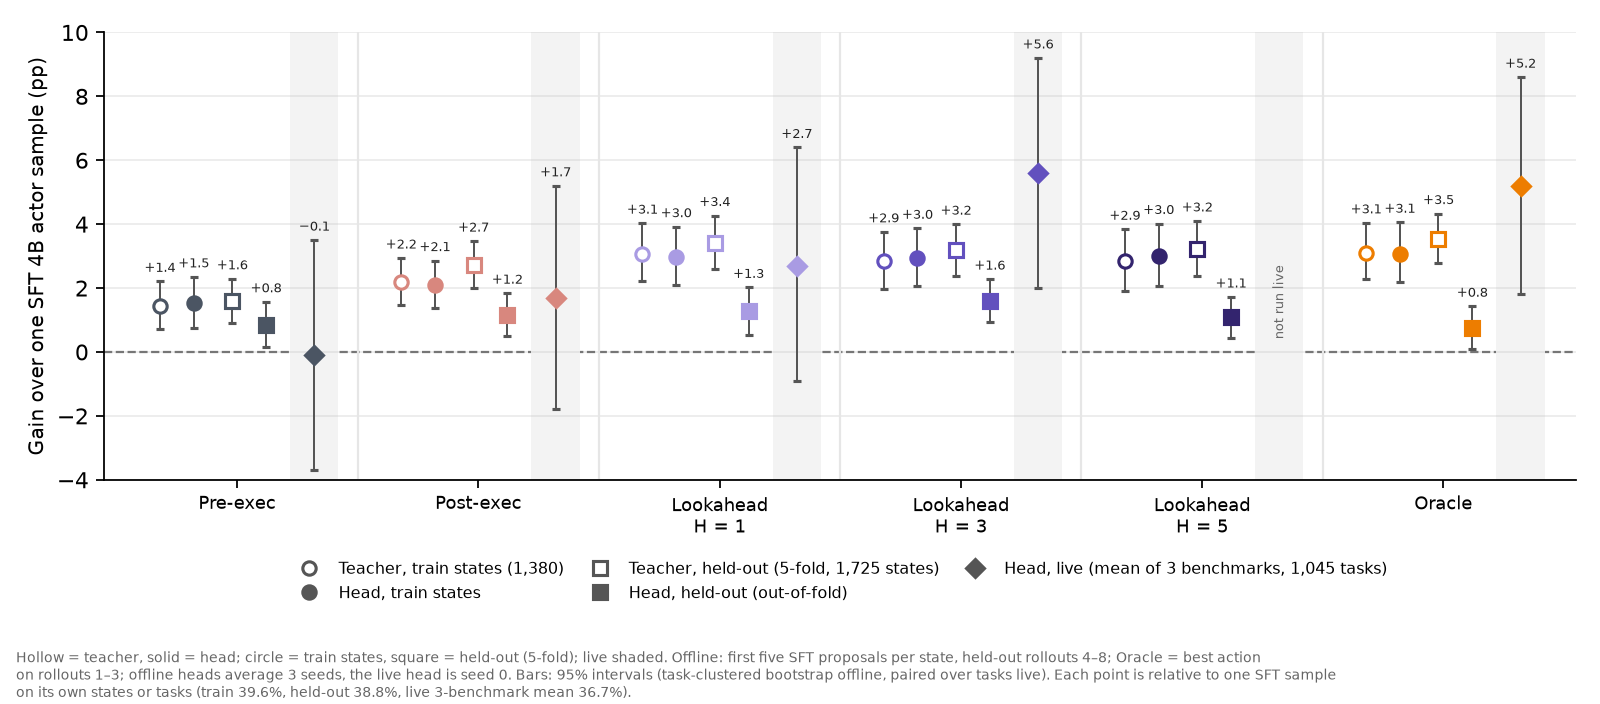
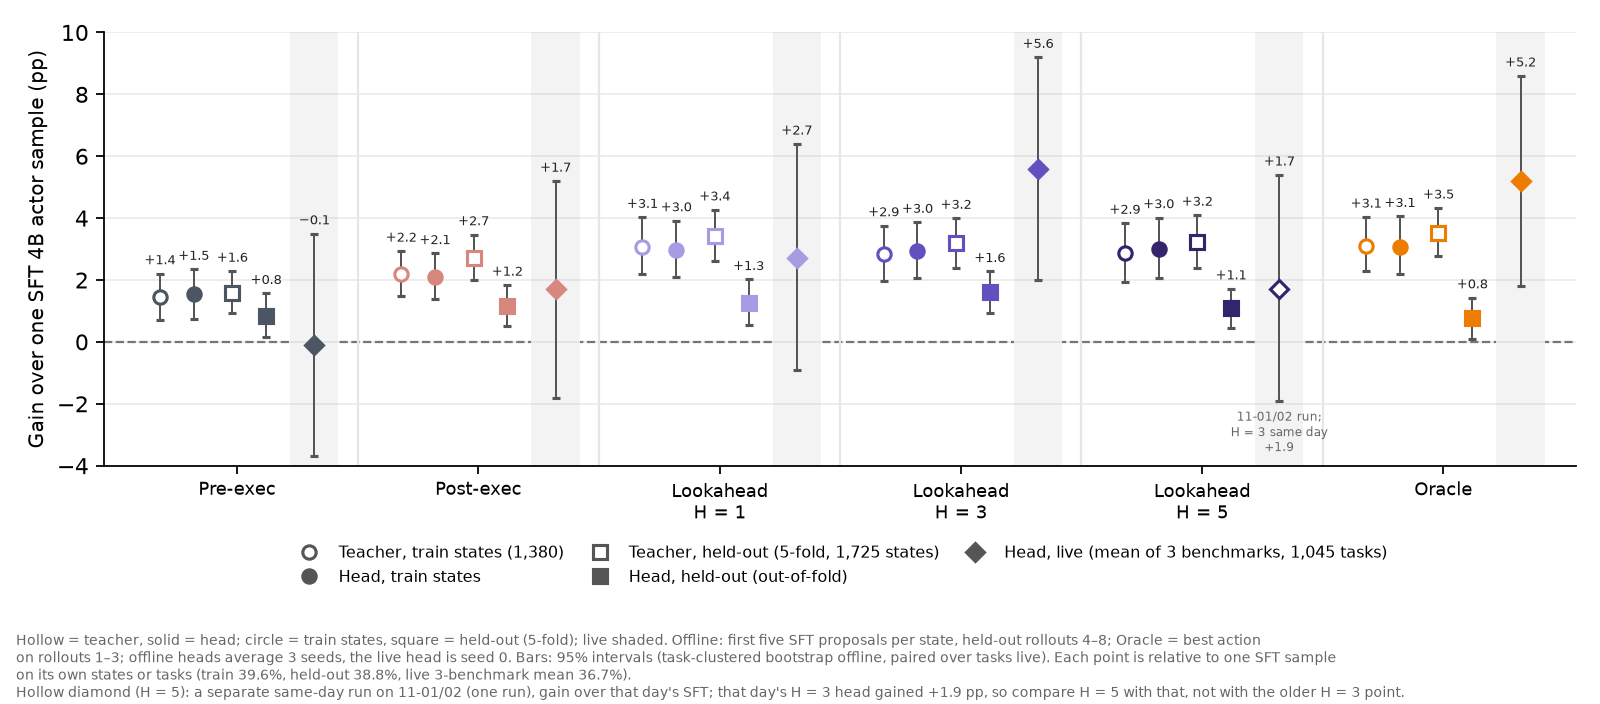
Selection labels: live H = 5 head (same-day run with H = 3 and SFT) added to the label plots
One run on 2026-11-01/02, SFT actor, 1280x1000, same judges as the live panel: H = 5 +1.7 [-1.9, +5.4] over SFT,
H = 3 +1.9 [-1.7, +5.6], H = 5 - H = 3 -0.2 [-3.6, +3.2]. Drawn hollow on the three k-fold plots, annotated with the
same-day H = 3 gain; table and DeepShop drift caveat in the k-fold section.

diff --git a/openwebrl/docs/arm_results/rl_integration/selection-label-same-state-kfold-20261101-plot.py b/openwebrl/docs/arm_results/rl_integration/selection-label-same-state-kfold-20261101-plot.py
@@ -10,7 +10,9 @@ valid draws only. Teacher = the label's argmax among the five (ties averaged); h
     selection-label-kfold-20261101.json ("pooled").
 Live: the seed-0 head, three-benchmark mean overall success (Online-Mind2Web 300 by gpt-5.6-terra, WebVoyager 595 and
 DeepShop 150 by GPT-4o) minus SFT 4B (selection-data-scale-20261023.json; post-execution from
-selection-label-stages-20261027.json "live"). Lookahead H = 5 was not run live.
+selection-label-stages-20261027.json "live"). Lookahead H = 5 was run live separately on 2026-11-01/02 (one run, same protocol and judges) with same-day SFT and
+H = 3 controls; its point is the same-day gain over SFT, drawn hollow (selection-label-k5-live-20261102.json, "h5 - sft").
+Read it against that day's H = 3 head (+1.9 over SFT), not the older H = 3 point.
 Each point is relative to one SFT sample on its own states/tasks; 95% intervals, task-clustered bootstrap (offline) or paired
 over tasks (live).
 """
@@ -26,13 +28,15 @@ TR = json.loads((HERE / "selection-label-train-states-kfold-20261101.json").read
 KF = json.loads((HERE / "selection-label-kfold-20261101.json").read_text())["pooled"]
 LIVE = json.loads((HERE / "selection-data-scale-20261023.json").read_text())["three_benchmarks"]
 EXTRA = json.loads((HERE / "selection-label-stages-20261027.json").read_text()).get("live", {})
+K5LIVE = json.loads((HERE / "selection-label-k5-live-20261102.json").read_text())["paired"]
+K5_H5, K5_H3 = K5LIVE["h5 - sft"]["mean"], K5LIVE["h3 - sft"]["mean"]  # same-day 11-01/02 run
 INK, MUTED, GRID = "#222222", "#666666", "#e6e6e6"
 ROWS = [  # label, colour, source key, live key
     ("Pre-exec", "#4B5563", "teacher_pre", "Ours pre"),
     ("Post-exec", "#D8877E", "teacher_post", "Ours post"),
     ("Lookahead\nH = 1", "#A99BE3", "teacher_k1", "Ours K1"),
     ("Lookahead\nH = 3", "#6250BE", "teacher_k3", "Ours K3"),
-    ("Lookahead\nH = 5", "#33246E", "teacher_k5", None),
+    ("Lookahead\nH = 5", "#33246E", "teacher_k5", "K5"),
     ("Oracle", "#ED7D00", "outcome", "Ours outcome")]
 MARK = [  # legend, marker, filled, dx
     (f"Teacher, train states ({TR['states']:,})", "o", False, -0.32),
@@ -43,7 +47,7 @@ MARK = [  # legend, marker, filled, dx
 
 
 def values(src, live):
-    lv = (EXTRA.get(live) or (LIVE[live]["minus_sft4b"] if live in LIVE else None)) if live else None
+    lv = K5_H5 if live == "K5" else ((EXTRA.get(live) or (LIVE[live]["minus_sft4b"] if live in LIVE else None)) if live else None)
     t = TR["train"][src]
     return [t["teacher_minus_sft"], t["head_minus_sft"], KF[src]["teacher_minus_sft"], KF[src]["head_minus_sft"], lv]
 
@@ -57,6 +61,9 @@ for x, (name, color, src, live) in enumerate(ROWS):
             ax.text(x + dx, 0.4, "not run live", ha="center", va="bottom", fontsize=6, color=MUTED, rotation=90)
             continue
         d, lo, hi = v
+        if live == "K5" and m == "D":  # separate same-day run: hollow, annotated with that day's H = 3
+            filled = False
+            ax.text(x + dx, lo - 0.3, "11-01/02 run;\nH = 3 same day\n" + f"{K5_H3[0]:+.1f}".replace("-", "−"), ha="center", va="top", fontsize=5.6, color=MUTED)
         ax.errorbar(x + dx, d, yerr=[[d - lo], [hi - d]], fmt=m, ms=6, color=color, ecolor="#555555", capsize=1.8,
                     lw=0.9, zorder=3, markeredgewidth=1.4, markerfacecolor=color if filled else "white",
                     markeredgecolor=color)
@@ -76,6 +83,6 @@ fig.text(0.01, 0.01, "Hollow = teacher, solid = head; circle = train states, squ
          "five SFT proposals per state, held-out rollouts 4–8; Oracle = best action\non rollouts 1–3; offline heads average 3 seeds, "
          "the live head is seed 0. Bars: 95% intervals (task-clustered bootstrap offline, paired over tasks live). Each point is "
          f"relative to one SFT sample\non its own states or tasks (train {TR['train']['sft_sample']:.1f}%, held-out "
-         f"{KF['sft_sample']:.1f}%, live 3-benchmark mean {LIVE['SFT 4B']['mean_overall']:.1f}%).", fontsize=6.5, color=MUTED)
-fig.tight_layout(rect=(0, 0.08, 1, 1))
+         f"{KF['sft_sample']:.1f}%, live 3-benchmark mean {LIVE['SFT 4B']['mean_overall']:.1f}%)." + "\nHollow diamond (H = 5): a separate same-day run on 11-01/02 (one run), gain over that day's SFT; that day's H = 3 head gained " + f"{K5_H3[0]:+.1f}".replace("-", "−") + " pp, so compare H = 5 with that, not with the older H = 3 point.", fontsize=6.5, color=MUTED)
+fig.tight_layout(rect=(0, 0.1, 1, 1))
 fig.savefig(HERE / "selection-label-same-state-kfold-20261101.png", dpi=160); plt.close(fig)

diff --git a/openwebrl/docs/arm_results/rl_integration/selection-label-stages-kfold-20261101-plot.py b/openwebrl/docs/arm_results/rl_integration/selection-label-stages-kfold-20261101-plot.py
@@ -10,7 +10,9 @@ sample of the same SFT 4B actor at three stages.
 (3) Head live: the seed-0 head trained on the original 1,380 training states, three-benchmark mean overall success
     (Online-Mind2Web 300 by gpt-5.6-terra, WebVoyager 595 and DeepShop 150 by GPT-4o) minus one SFT 4B sample, paired 95%
     bootstrap over tasks (selection-data-scale-20261023.json; post-execution from selection-label-stages-20261027.json).
-    Lookahead H = 5 was not run live.
+    Lookahead H = 5 was run live separately on 2026-11-01/02 (one run, same protocol and judges) with same-day SFT and
+H = 3 controls; its point is the same-day gain over SFT, drawn hollow (selection-label-k5-live-20261102.json, "h5 - sft").
+Read it against that day's H = 3 head (+1.9 over SFT), not the older H = 3 point.
 Stages (1)-(2) share states; (3) uses different tasks, so compare orderings across stages, not sizes. The prior judge
 formulations (WebArbiter, WebShepherd, PRO-CUA) were scored as teachers on a different 1,010-state set and are left out;
 they remain in selection-label-stages-20261027.png.
@@ -26,13 +28,15 @@ HERE = Path(__file__).resolve().parent
 K = json.loads((HERE / "selection-label-kfold-20261101.json").read_text())["pooled"]
 LIVE = json.loads((HERE / "selection-data-scale-20261023.json").read_text())["three_benchmarks"]
 EXTRA = json.loads((HERE / "selection-label-stages-20261027.json").read_text()).get("live", {})
+K5LIVE = json.loads((HERE / "selection-label-k5-live-20261102.json").read_text())["paired"]
+K5_H5, K5_H3 = K5LIVE["h5 - sft"]["mean"], K5LIVE["h3 - sft"]["mean"]  # same-day 11-01/02 run
 INK, MUTED = "#222222", "#666666"
 ROWS = [  # tick label, colour, source key, live key
     ("Pre-exec", "#4B5563", "teacher_pre", "Ours pre"),
     ("Post-exec", "#D8877E", "teacher_post", "Ours post"),
     ("Lookahead\nH = 1", "#A99BE3", "teacher_k1", "Ours K1"),
     ("Lookahead\nH = 3", "#6250BE", "teacher_k3", "Ours K3"),
-    ("Lookahead\nH = 5", "#33246E", "teacher_k5", None),
+    ("Lookahead\nH = 5", "#33246E", "teacher_k5", "K5"),
     ("Oracle", "#ED7D00", "outcome", "Ours outcome")]
 MARK = [(f"Teacher's pick, offline ({K['states']:,} states, 5-fold)", "o", False),
         ("Head trained on the labels, offline (out-of-fold, 3 seeds)", "s", False),
@@ -41,7 +45,7 @@ DX = (-0.24, 0, 0.24)
 
 
 def values(src, live):
-    lv = (EXTRA.get(live) or (LIVE[live]["minus_sft4b"] if live in LIVE else None)) if live else None
+    lv = K5_H5 if live == "K5" else ((EXTRA.get(live) or (LIVE[live]["minus_sft4b"] if live in LIVE else None)) if live else None)
     return [K[src]["teacher_minus_sft"], K[src]["head_minus_sft"], lv]
 
 
@@ -53,6 +57,9 @@ for x, (_, color, src, live) in enumerate(ROWS):
             ax.text(x + dx, 0.4, "not run\nlive", ha="center", va="bottom", fontsize=6, color=MUTED)
             continue
         d, lo, hi = v
+        if live == "K5" and m == "D":  # separate same-day run: hollow, annotated with that day's H = 3
+            filled = False
+            ax.text(x + dx, lo - 0.3, "11-01/02 run;\nH = 3 same day\n" + f"{K5_H3[0]:+.1f}".replace("-", "−"), ha="center", va="top", fontsize=5.6, color=MUTED)
         ax.errorbar(x + dx, d, yerr=[[d - lo], [hi - d]], fmt=m, ms=6.5, color=color, ecolor="#555555", capsize=2,
                     lw=0.9, zorder=3, markeredgewidth=1.4, markerfacecolor=color if filled else "white",
                     markeredgecolor=color)
@@ -68,6 +75,6 @@ ax.legend(handles, [l for l, _, _ in MARK], frameon=False, fontsize=7.5, loc="up
 fig.text(0.01, 0.01, "Offline: first five SFT proposals per state, held-out rollouts 4–8 (labels used rollouts 1–3; Oracle = best "
          f"action on rollouts 1–3); one SFT sample = {K['sft_sample']:.1f}%. Live: one SFT sample = "
          f"{LIVE['SFT 4B']['mean_overall']:.1f}%.\nBars: 95% intervals, task-clustered bootstrap (offline) or paired over tasks "
-         "(live). Offline and live use different tasks: compare orderings, not sizes.", fontsize=6.5, color=MUTED)
-fig.tight_layout(rect=(0, 0.05, 1, 1))
+         "(live). Offline and live use different tasks: compare orderings, not sizes." + "\nHollow diamond (H = 5): a separate same-day run on 11-01/02 (one run), gain over that day's SFT; that day's H = 3 head gained " + f"{K5_H3[0]:+.1f}".replace("-", "−") + " pp, so compare H = 5 with that, not with the older H = 3 point.", fontsize=6.5, color=MUTED)
+fig.tight_layout(rect=(0, 0.07, 1, 1))
 fig.savefig(HERE / "selection-label-stages-kfold-20261101.png", dpi=160); plt.close(fig)

diff --git a/openwebrl/docs/arm_results/rl_integration/selection-label-setups-kfold-20261101-plot.py b/openwebrl/docs/arm_results/rl_integration/selection-label-setups-kfold-20261101-plot.py
@@ -8,7 +8,9 @@
     averaged). Task-clustered bootstrap, 10,000 resamples, seed 20261101 (selection-label-kfold-20261101.json).
 (2) Live: the seed-0 head trained on the original 1,380 training states, three-benchmark mean overall success
     (Online-Mind2Web 300 by gpt-5.6-terra, WebVoyager 595 and DeepShop 150 by GPT-4o; selection-data-scale-20261023.json,
-    post-execution from selection-label-stages-20261027.json). Lookahead H = 5 was not run live.
+    post-execution from selection-label-stages-20261027.json). Lookahead H = 5 was run live separately on 2026-11-01/02 (one run, same protocol and judges) with same-day SFT and
+H = 3 controls; its point is the same-day gain over SFT, drawn hollow (selection-label-k5-live-20261102.json, "h5 - sft").
+Read it against that day's H = 3 head (+1.9 over SFT), not the older H = 3 point.
 """
 import json
 from pathlib import Path
@@ -21,13 +23,15 @@ HERE = Path(__file__).resolve().parent
 K = json.loads((HERE / "selection-label-kfold-20261101.json").read_text())
 LIVE = json.loads((HERE / "selection-data-scale-20261023.json").read_text())["three_benchmarks"]
 EXTRA = json.loads((HERE / "selection-label-stages-20261027.json").read_text()).get("live", {})
+K5LIVE = json.loads((HERE / "selection-label-k5-live-20261102.json").read_text())["paired"]
+K5_H5, K5_H3 = K5LIVE["h5 - sft"]["mean"], K5LIVE["h3 - sft"]["mean"]  # same-day 11-01/02 run
 INK, MUTED = "#222222", "#666666"
 ROWS = [  # tick label, colour, source key, live key
     ("Pre-exec", "#4B5563", "teacher_pre", "Ours pre"),
     ("Post-exec", "#D8877E", "teacher_post", "Ours post"),
     ("Lookahead\nH = 1", "#A99BE3", "teacher_k1", "Ours K1"),
     ("Lookahead\nH = 3", "#6250BE", "teacher_k3", "Ours K3"),
-    ("Lookahead\nH = 5", "#33246E", "teacher_k5", None),
+    ("Lookahead\nH = 5", "#33246E", "teacher_k5", "K5"),
     ("Oracle", "#ED7D00", "outcome", "Ours outcome")]
 P = K["pooled"]
 PANELS = [
@@ -51,6 +55,10 @@ for ax, (title, kind, base) in zip(axes, PANELS):
             if live is None:
                 ax.text(x, 0.4, "not run\nlive", ha="center", va="bottom", fontsize=6.5, color=MUTED)
                 continue
+            if live == "K5":  # separate same-day run: hollow, annotated with that day's H = 3
+                point(ax, x, K5_H5, color, "D", False)
+                ax.text(x, K5_H5[1] - 0.3, "11-01/02 run;\nH = 3 same day\n" + f"{K5_H3[0]:+.1f}".replace("-", "−"), ha="center", va="top", fontsize=5.6, color=MUTED)
+                continue
             point(ax, x, EXTRA.get(live) or LIVE[live]["minus_sft4b"], color, "D", True)
         else:
             point(ax, x - 0.17, P[src]["teacher_minus_sft"], color, "o", False)
@@ -64,9 +72,9 @@ axes[0].set_ylim(-4.5, 10); axes[0].set_ylabel("Gain over one SFT 4B actor sampl
 handles = [Line2D([], [], marker=m, ls="", color="#555555", ms=6.5, markeredgewidth=1.4,
                   markerfacecolor="#555555" if f else "white") for m, f in (("o", False), ("s", True), ("D", True))]
 fig.legend(handles, ["Teacher's pick (label)", "Head trained on the labels (3 seeds, out-of-fold)", "Head, live (seed 0)"],
-           frameon=False, fontsize=8, loc="lower center", ncol=3, bbox_to_anchor=(0.5, 0.06))
+           frameon=False, fontsize=8, loc="lower center", ncol=3, bbox_to_anchor=(0.5, 0.08))
 fig.text(0.01, 0.01, "Offline: each state's first five SFT proposals, scored on held-out rollouts 4–8 (labels used rollouts 1–3; "
          "Oracle = best action on rollouts 1–3). Bars: 95% intervals,\ntask-clustered bootstrap (offline) or paired over "
-         "tasks (live). Each panel's baseline is one SFT sample on its own states or tasks.", fontsize=6.5, color=MUTED)
-fig.tight_layout(rect=(0, 0.12, 1, 1))
+         "tasks (live). Each panel's baseline is one SFT sample on its own states or tasks." + "\nHollow diamond (H = 5): a separate same-day run on 11-01/02 (one run), gain over that day's SFT; that day's H = 3 head gained " + f"{K5_H3[0]:+.1f}".replace("-", "−") + " pp, so compare H = 5 with that, not with the older H = 3 point.", fontsize=6.5, color=MUTED)
+fig.tight_layout(rect=(0, 0.14, 1, 1))
 fig.savefig(HERE / "selection-label-setups-kfold-20261101.png", dpi=160); plt.close(fig)

diff --git a/openwebrl/docs/arm_results/rl_integration/selection-label-k5-live-20261102-analysis.py b/openwebrl/docs/arm_results/rl_integration/selection-label-k5-live-20261102-analysis.py
@@ -1,0 +1,39 @@
+#!/usr/bin/env python3
+"""Live H = 5 lookahead-label head vs H = 3 head vs SFT alone, same day (head-k5-20261101/run1, 2026-11-01/02), SFT actor,
+1280x1000, N=5, T1.0/p0.9, 30 steps, all tasks (OM2W 300, WV 595, DS 150). One run each. Valid-only = successes / valid;
+mean overall = unweighted mean of benchmark overall rates. Paired bootstrap over tasks (10,000, seed 20261029), benchmarks
+resampled independently. Context: H = 3 head and SFT pooled over the 3 runs of sameday-20261029 (cross-day)."""
+import json, sys
+from pathlib import Path
+import numpy as np
+R = Path('/gpfs/scrubbed/zixianma/openwebrl-runtime/evaluations'); BENCH = ('online_mind2web', 'webvoyager', 'deepshop')
+SLUG = {'sft': 'sft1', 'h3': 'head5-11d5eff8ffe1', 'h5': 'head5-ccf9e214b15a'}
+tasks = {b: list(json.loads((R/'crossbench-full-t10-20261018'/b/'sft1'/b/'plan.json').read_text())['keys']) for b in BENCH}
+rng = np.random.default_rng(20261029)
+def load(root, slug, b):
+    d = R/root/b/slug/b; keys = json.loads((d/'plan.json').read_text())['keys']; out = {}
+    for t in tasks[b]:
+        r = json.loads((d/'collection'/'records'/f'{keys[t]}.json').read_text()); v = str(r.get('valid')) == 'True'
+        out[t] = (v, v and float(r.get('reward') or 0) >= 1)
+    return out
+today = {c: [{b: load('head-k5-20261101/run1', s, b) for b in BENCH}] for c, s in SLUG.items()}
+oct29 = {c: [{b: load(rt, SLUG[c], b) for b in BENCH} for rt in ('sameday-20261029', 'sameday-20261029/rerun2', 'sameday-20261029/rerun3')] for c in ('sft', 'h3')}
+def vec(rs, b): return np.array([np.mean([r[b][t][1] for r in rs]) for t in tasks[b]], float)
+def boot(xs):
+    est = np.mean([x.mean() for x in xs]); bs = np.mean([x[rng.integers(0, len(x), (10000, len(x)))].mean(1) for x in xs], 0)
+    return [round(100*est, 1), round(100*np.percentile(bs, 2.5), 1), round(100*np.percentile(bs, 97.5), 1)]
+def diff(a, c):
+    d = {b: boot([vec(a, b) - vec(c, b)]) for b in BENCH}; d['mean'] = boot([vec(a, b) - vec(c, b) for b in BENCH]); return d
+def rate(rs):
+    r = {}
+    for b in BENCH:
+        sc = sum(x[1] for d in rs for x in d[b].values()); va = sum(x[0] for d in rs for x in d[b].values()); n = sum(len(d[b]) for d in rs)
+        r[b] = dict(successes=sc, valid=va, episodes=n, overall=round(100*sc/n, 1), valid_only=round(100*sc/va, 1))
+    r['mean_overall'] = round(np.mean([r[b]['overall'] for b in BENCH]), 1); r['mean_valid_only'] = round(np.mean([r[b]['valid_only'] for b in BENCH]), 1)
+    return r
+rates = {f'today/{c}': rate(v) for c, v in today.items()} | {f'oct29_3run/{c}': rate(v) for c, v in oct29.items()}
+for k, r in rates.items(): print(f"{k:<16}", *(f"{r[b]['valid_only']:>5}" for b in BENCH), r['mean_overall'], r['mean_valid_only'], [r[b]['valid'] for b in BENCH])
+paired = {'h5 - sft': diff(today['h5'], today['sft']), 'h3 - sft': diff(today['h3'], today['sft']), 'h5 - h3': diff(today['h5'], today['h3']),
+          'h3 today - h3 oct29 (cross-day)': diff(today['h3'], oct29['h3']), 'sft today - sft oct29 (cross-day)': diff(today['sft'], oct29['sft'])}
+for k, v in paired.items(): print(k, 'mean', v['mean'], '| OM2W', v['online_mind2web'], 'WV', v['webvoyager'], 'DS', v['deepshop'])
+if len(sys.argv) > 1: Path(sys.argv[1]).write_text(json.dumps(dict(note=__doc__, slugs=SLUG, rates=rates, paired=paired), indent=1))

diff --git a/openwebrl/docs/ARM_FINAL_RESULTS.md b/openwebrl/docs/ARM_FINAL_RESULTS.md
@@ -635,7 +635,7 @@ Its conservative all-attempt model total was $353.582380 ($348.649556 known usag
 - **Methods.** Every selector picks one of five candidates the frozen actor samples per step; "branch" data are the SFT-actor branching states collected for this project ([collection and labels](ARM_FORMULATIONS.md#lookahead-labels-current)), "Piotr's" the GPT-5.5-labelled panels of Piotr's release. SFT rows take a single sample. Training data reads states / panels (with the actions in each panel) / labels. Piotr's panels are five sampled actor actions each (about 13 per state), duplicates included, each labelled with one GPT-5.5 pick made before execution (from the screenshot and candidates only). Branch panels are one per state holding its 2–5 distinct SFT-proposed actions, reshuffled each epoch; branch states come from the tasks of Piotr's training split.
 - <a id="final-paired-bootstrap"></a>**How the paired 95% intervals are computed** (every "pp [95% CI]" difference and every plot error bar in the selection-head results). Both runs use the same frozen task list. Each task scores 1 if its single episode is valid and judged successful, else 0 (invalid episodes count as failures), and the per-task difference is d = run − reference ∈ {−1, 0, +1}; the point estimate is the mean of d. For one benchmark, draw 10,000 resamples of its tasks with replacement, each the size of the benchmark, and take the mean of d in each. For the three-benchmark mean, resample tasks independently within each benchmark (keeping 300 / 595 / 150 tasks) and average the three resampled means with weight 1/3 each. The interval is the 2.5th to 97.5th percentile of the 10,000 resampled values. The random seed is fixed in each analysis script (e.g. NumPy `default_rng(20261018)`; the data-scaling script uses Python `random.Random(0)`). Pairing on tasks removes task-difficulty variance shared by the two runs, so these intervals are narrower than comparing two per-run intervals; they do not include training-seed variance (one seed per live head), episode-sampling variance beyond the one episode per task, or run-date drift (DeepShop).
 - **Difference columns** are row − reference on the mean overall rate, [paired 95% bootstrap](#final-paired-bootstrap) with tasks resampled within each benchmark. Also: Piotr-data head − SFT 8B +4.8 [+1.0, +8.5]. Valid-only differences (tasks valid under both) agree within 1.1 pp.
-- **From teacher to live, per label source.** For each label, three gains over one sample of the same SFT 4B actor: the teacher's own pick offline and the head trained on those labels offline, both on all 1,725 branch states with task-level 5-fold heads ([method](#final-selection-label-kfold-20261101)), and the seed-0 head live (three-benchmark mean). Offline and live use different tasks, so compare orderings, not sizes. Online-Mind2Web here uses the current gpt-5.6-terra judge (all runs re-judged from saved requests), so the live gains are slightly lower than the o4-mini numbers above. Post-execution labels (Luna judging each action from its immediate result, added 2026-10-27) gain +1.7 pp [−1.8, +5.2] live (Online-Mind2Web −0.3, WebVoyager +4.0, DeepShop +1.3; [data](arm_results/rl_integration/selection-post-label-20261027.json)); DeepShop SFT varied 26.7–34.0% across three runs, so DeepShop gains carry run-date drift. Lookahead H = 5 was not run live. Bars are 95% intervals (task-clustered offline, [paired](#final-paired-bootstrap) live). [Plot script](arm_results/rl_integration/selection-label-stages-kfold-20261101-plot.py)
+- **From teacher to live, per label source.** For each label, three gains over one sample of the same SFT 4B actor: the teacher's own pick offline and the head trained on those labels offline, both on all 1,725 branch states with task-level 5-fold heads ([method](#final-selection-label-kfold-20261101)), and the seed-0 head live (three-benchmark mean). Offline and live use different tasks, so compare orderings, not sizes. Online-Mind2Web here uses the current gpt-5.6-terra judge (all runs re-judged from saved requests), so the live gains are slightly lower than the o4-mini numbers above. Post-execution labels (Luna judging each action from its immediate result, added 2026-10-27) gain +1.7 pp [−1.8, +5.2] live (Online-Mind2Web −0.3, WebVoyager +4.0, DeepShop +1.3; [data](arm_results/rl_integration/selection-post-label-20261027.json)); DeepShop SFT varied 26.7–34.0% across three runs, so DeepShop gains carry run-date drift. Lookahead H = 5 (hollow diamond) comes from a separate [same-day run](#final-selection-label-k5-live-20261102) on 11-01/02: +1.7 [−1.9, +5.4] over that day's SFT, against +1.9 [−1.7, +5.6] for that day's H = 3 head. Bars are 95% intervals (task-clustered offline, [paired](#final-paired-bootstrap) live). [Plot script](arm_results/rl_integration/selection-label-stages-kfold-20261101-plot.py)
 
   ![Gain over one SFT 4B sample for each label source at three stages: teacher pick offline and trained head offline (5-fold, 1,725 states), and the head live](arm_results/rl_integration/selection-label-stages-kfold-20261101.png)
 
@@ -661,7 +661,16 @@ Its conservative all-attempt model total was $353.582380 ($348.649556 known usag
   - **H = 5 adds nothing over H = 3.** As teachers they are level (H = 3 − H = 5 = −0.0 [−0.5, +0.4]). As heads, H = 5 is borderline worse (H = 3 − H = 5 = +0.5 [+0.0, +1.0]). This agrees with the earlier 315-state check ([K = 5 − K = 3 −0.05 pp](ARM_FORMULATIONS.md#lookahead-v2-20261013)).
   - **H = 3 is the best head.** It beats the Oracle head (+0.8 [+0.1, +1.6]) and the pre-exec head (+0.7 [+0.0, +1.5]). Every other pair of heads overlaps zero. This matches the live ordering, where the H = 3 and Oracle heads are the two best (right panel).
   - **Heads keep only part of the teacher's gain**, from about half (pre-exec, H = 3) to under a quarter (Oracle). The Oracle head loses the most (−2.8 pp below its teacher).
-  - **Offline gains are small and do not predict live size.** They are 1–3.5 pp here against 2–6 pp live, and they use different states, tasks and SFT baselines, so compare orderings, not sizes. H = 5 was not run live.
+  - **Offline gains are small and do not predict live size.** They are 1–3.5 pp here against 2–6 pp live, and they use different states, tasks and SFT baselines, so compare orderings, not sizes.
+  - <a id="final-selection-label-k5-live-20261102"></a>**Live, H = 5 ties H = 3 (−0.2 [−3.6, +3.2]).** One same-day run on 2026-11-01/02 of the H = 5 head (fold-0 seed-0 head: same 1,380 training states and recipe as the live H = 3 head), the live H = 3 head and SFT alone; SFT 4B actor, 1280×1000, N = 5, T 1.0 / top-p 0.9, 30 steps, all tasks, same judges (Online-Mind2Web gpt-5.6-terra, WebVoyager and DeepShop GPT-4o). Per-benchmark columns are valid-only; differences are on mean overall, [paired 95% intervals](#final-paired-bootstrap). Both heads gain less over SFT than on earlier days (H = 3 +5.6 in the right panel) mainly because DeepShop SFT scored 47.0% valid-only that day (29.0% pooled on 10-29), so read H = 5 against the same-day H = 3, not the older point. One run each: intervals are about ±3.5 pp. 18.8 H200-hours.
+
+    | Condition | Online-Mind2Web<br>valid-only | WebVoyager<br>valid-only | DeepShop<br>valid-only | Mean<br>overall | Mean<br>valid-only | − SFT 4B, pp<br>[95% CI] | − H = 3 head, pp<br>[95% CI] |
+    | --- | ---: | ---: | ---: | ---: | ---: | ---: | ---: |
+    | *SFT 4B, 1 sample* | 32.6% | 48.6% | 47.0% | 41.4% | 42.7% | — | — |
+    | Head, H = 3 labels | 38.7% | 51.8% | 45.3% | 43.3% | 45.3% | +1.9 [−1.7, +5.6] | — |
+    | Head, H = 5 labels | 39.5% | 48.8% | 47.7% | 43.1% | 45.3% | +1.7 [−1.9, +5.4] | −0.2 [−3.6, +3.2] |
+
+    [Data](arm_results/rl_integration/selection-label-k5-live-20261102.json) · [analysis script](arm_results/rl_integration/selection-label-k5-live-20261102-analysis.py)
 
   ![Gain over one SFT 4B sample per label source: offline task-level 5-fold teacher and head on 1,725 states, and the head live](arm_results/rl_integration/selection-label-setups-kfold-20261101.png)
 
